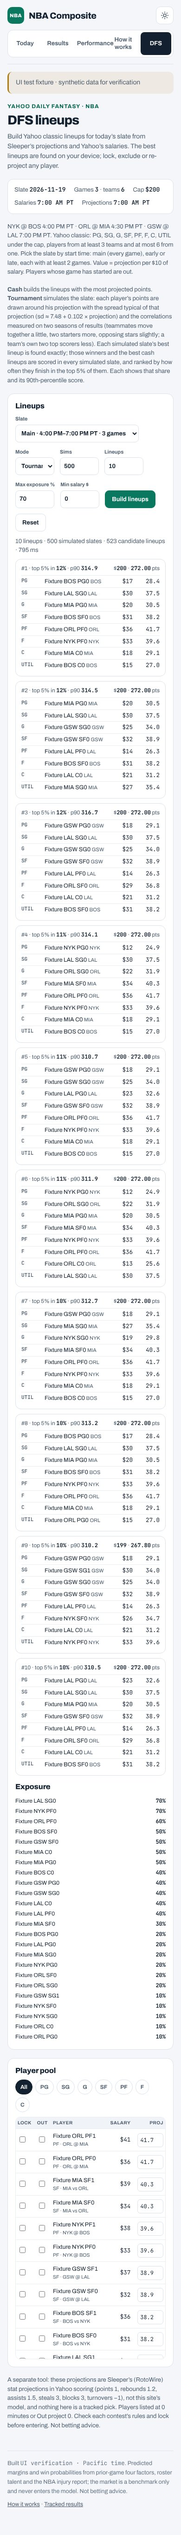
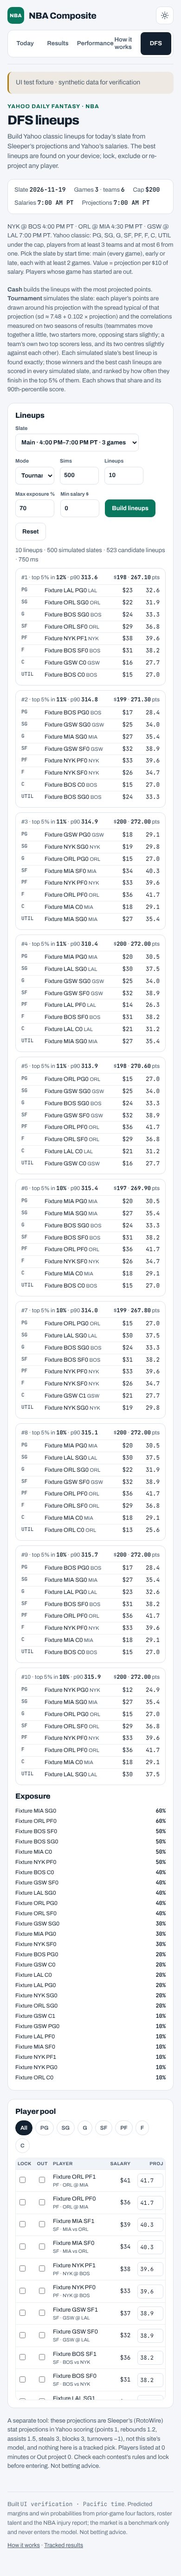
DFS tournament: two centres on one team split to the measured -0.04
Owner's request. The one negative pair the research measured (teammate
C-C, -0.039 +/- 0.071 pooled; both starters -0.060 +/- 0.110) was +0.012
(+0.08 if both start) in the factor model. Each team's two top projected
centres now share an opposite-sign factor sized per team (big_split) so
their pair is SIM["center_pair"] = -0.04 whatever their starter or star
flags; nothing else changes.

Tests: 20,000 draws put the two centres at -0.04 within 0.02 beside the
other pairs; the slate flags and sizes the split. Tonight's tournament
lineups are unchanged (no top lineup pairs two same-team centres).

Claude-Session: https://claude.ai/code/session_01Tymo9A874w1j1dz2D4UFzh

diff --git a/dfs.py b/dfs.py
@@ -61,9 +61,11 @@ OUT_STATUSES = ("out", "ir")
 # his projection, and his simulated points share factors whose pair
 # correlations match the measured ones: any two teammates TEAM; two starters
 # TEAM + STARTER; opposing top-2 scorers GAME_STAR; a team's own two top
-# scorers TEAM + STARTER + GAME_STAR - STAR_SPLIT (about +0.03).
+# scorers TEAM + STARTER + GAME_STAR - STAR_SPLIT (about +0.03); a team's
+# two top projected centres CENTER_PAIR (the one negative pair measured,
+# -0.039 +/- 0.071 pooled: a split factor sized per team, big_split).
 SIM = {"sd_base": 7.48, "sd_slope": 0.102, "team": 0.012, "starter": 0.068,
-       "game_star": 0.038, "star_split": 0.09, "seed": 356}
+       "game_star": 0.038, "star_split": 0.09, "center_pair": -0.04, "seed": 356}
 STARTERS, STARS = 5, 2   # per team: by Sleeper minutes, by projection
 
 
@@ -225,6 +227,14 @@ def slate(today, yahoo=None, sleeper=None, native=None, now=None):
             p["starter"] = True
         for k, p in enumerate(sorted(mine, key=lambda p: -p["proj"])[:STARS]):
             p["star"] = k + 1
+        bigs = sorted((p for p in mine if p["pos"] == "C"), key=lambda p: -p["proj"])[:2]
+        if len(bigs) == 2:   # their pair without the split, then the split to CENTER_PAIR
+            a, b = bigs
+            pair = SIM["team"] + (SIM["starter"] if a.get("starter") and b.get("starter") else 0)
+            if a.get("star") and b.get("star"):
+                pair += SIM["game_star"] - SIM["star_split"]
+            for k, p in enumerate(bigs):
+                p["big"], p["big_split"] = k + 1, round(max(0.0, pair - SIM["center_pair"]), 4)
     snaps = s["snapshot_utc"].astype(str)
     games_out = sorted({(r.game_code, r.away, r.home, r.start_utc) for r in y.itertuples()},
                        key=lambda t: (t[3], t[0]))
@@ -353,7 +363,8 @@ def body(data, ui):
             "<b>Tournament</b> simulates the slate: each player’s points are drawn around his projection "
             f"with the spread typical of that projection (sd ≈ {SIM['sd_base']:g} + {SIM['sd_slope']:g} × "
             "projection) and the correlations measured on two seasons of results (teammates move together "
-            "a little, two starters more, opposing stars slightly; a team’s own two top scorers less). "
+            "a little, two starters more, opposing stars slightly; a team’s own two top scorers less, "
+            "and its two centres slightly against each other). "
             "Each simulated slate’s best lineup is found exactly; those winners and the best cash "
             "lineups are scored in every simulated slate, and ranked by how often they finish in the top "
             "5% of them. Each shows that share and its 90th-percentile score.</p>"
@@ -432,8 +443,9 @@ function teamsOk(ids,team,minTeams,maxPer){var c={};ids.forEach(function(i){var 
 // projection plus sd x z, floored at 0, where z = sqrt(team) T[team]
 // + sqrt(starter) U[team] (starters) + sqrt(game_star) G[game] (top-2
 // scorers) +/- sqrt(star_split) Q[team] (+ for the top scorer, - for the
-// second) + an independent remainder: a factor model, so every draw is a
-// valid correlated normal.
+// second) +/- sqrt(big_split) R[team] (a team's two top centres) + an
+// independent remainder: a factor model, so every draw is a valid
+// correlated normal.
 function rng(seed){var a=seed>>>0;return function(){a=(a+0x6D2B79F5)>>>0;var t=a;t=Math.imul(t^(t>>>15),t|1);
  t^=t+Math.imul(t^(t>>>7),t|61);return ((t^(t>>>14))>>>0)/4294967296;};}
 function gauss(r){var u=0,v=0;while(u===0)u=r();while(v===0)v=r();return Math.sqrt(-2*Math.log(u))*Math.cos(2*Math.PI*v);}
@@ -441,6 +453,7 @@ function draw(P,M,r){var f={},out=new Float64Array(P.length);function F(k){if(!(
  for(var i=0;i<P.length;i++){var p=P[i],w=M.team,z=Math.sqrt(M.team)*F('T'+p.team);
   if(p.starter){z+=Math.sqrt(M.starter)*F('U'+p.team);w+=M.starter;}
   if(p.star){z+=Math.sqrt(M.game_star)*F('G'+p.game)+(p.star===1?1:-1)*Math.sqrt(M.star_split)*F('Q'+p.team);w+=M.game_star+M.star_split;}
+  if(p.big){z+=(p.big===1?1:-1)*Math.sqrt(p.big_split)*F('R'+p.team);w+=p.big_split;}
   z+=Math.sqrt(Math.max(0,1-w))*gauss(r);out[i]=Math.max(0,p.v+(M.sd_base+M.sd_slope*p.v)*z);}
  return out;}
 // S simulated slates, each solved exactly (ok(ids): the team rules). Returns
@@ -493,7 +506,7 @@ function esc(s){return String(s).replace(/[&<>"']/g,function(c){return {'&':'&am
 function proj(p){return st.proj[p.id]!==undefined?st.proj[p.id]:p.proj;}
 function started(p){return Date.parse(p.start)<=Date.now();}
 function pool(){return D.players.filter(function(p){var v=proj(p);return inSlate(p)&&!st.out[p.id]&&!started(p)&&v!==null&&v!==undefined&&(v>0||st.lock[p.id]);})
- .map(function(p){return {id:p.id,pos:p.pos,sal:p.sal,v:proj(p),team:p.team,game:p.game,starter:!!p.starter,star:p.star||0};});}
+ .map(function(p){return {id:p.id,pos:p.pos,sal:p.sal,v:proj(p),team:p.team,game:p.game,starter:!!p.starter,star:p.star||0,big:p.big||0,big_split:p.big_split||0};});}
 function slots(ids,byId){var ps=ids.map(function(i){return byId[i];}),used={},at={};
  function take(ok){for(var i=0;i<ps.length;i++){if(!used[i]&&ok(ps[i])){used[i]=1;return ps[i];}}return null;}
  [['PG',function(p){return p.pos==='PG';}],['SG',function(p){return p.pos==='SG';}],['SF',function(p){return p.pos==='SF';}],

diff --git a/tests/test_dfs.py b/tests/test_dfs.py
@@ -222,7 +222,10 @@ def _sim_pool(seed=5):
             for k, pos in enumerate(["PG", "SG", "SF", "PF", "C", "PG", "SF", "C"]):
                 pool.append(dict(id=f"{t}{k}", pos=pos, sal=int(rng.integers(10, 40)),
                                  v=round(float(rng.uniform(15, 45)), 2), team=t, game=f"g{g}",
-                                 starter=k < 5, star=(k + 1) if k < 2 else 0))
+                                 starter=k < 5, star=(k + 1) if k < 2 else 0,
+                                 # the starting centre (k 4) and the bench one (k 7)
+                                 big={4: 1, 7: 2}.get(k, 0),
+                                 big_split=dfs.SIM["team"] - dfs.SIM["center_pair"] if k in (4, 7) else 0))
     return pool
 
 
@@ -258,6 +261,7 @@ process.stdout.write(JSON.stringify(Z));""", dict(pool=pool, sim=dfs.SIM))
              ("A5", "A6"): m["team"],                              # two bench players
              ("A0", "A1"): m["team"] + m["starter"] + m["game_star"] - m["star_split"],  # own stars
              ("A0", "B0"): m["game_star"], ("A0", "B1"): m["game_star"],             # opposing stars
+             ("A4", "A7"): m["center_pair"],                       # the team's two centres
              ("A2", "B2"): 0.0, ("A0", "C0"): 0.0}                 # opponents; other game
     for (a, b), want in pairs.items():
         assert c[ix[a], ix[b]] == pytest.approx(want, abs=0.02), (a, b)
@@ -267,15 +271,22 @@ process.stdout.write(JSON.stringify(Z));""", dict(pool=pool, sim=dfs.SIM))
 @pytest.mark.skipif(NODE is None, reason="node is not installed")
 def test_sim_model_and_flags_reach_the_page():
     yahoo = pd.DataFrame(dfs.parse_feed(_feed([_yp("p1", "Zion Williamson", "NO", "PF", 36),
-                                               _yp("p2", "Other Guy", "NO", "C", 20)]), now=NOW),
+                                               _yp("p2", "Other Guy", "NO", "C", 20),
+                                               _yp("p3", "Backup Big", "NO", "C", 10)]), now=NOW),
                          columns=dfs.YAHOO_COLUMNS).astype(str)
     line = dict(minutes="32", pts="20", reb="5", ast="3", stl="1", blk="1", to="2", tpm="1")
     sl = _sleeper([dict(kind="pre", team="NOP", sleeper_id="1", name="Zion Williamson", **line),
-                   dict(kind="pre", team="NOP", sleeper_id="2", name="Other Guy", **dict(line, pts="5"))])
+                   dict(kind="pre", team="NOP", sleeper_id="2", name="Other Guy", **dict(line, pts="5")),
+                   dict(kind="pre", team="NOP", sleeper_id="3", name="Backup Big", **dict(line, pts="2"))])
     d = dfs.slate("2026-10-29", yahoo=yahoo, sleeper=sl, native=_native(), now=NOW)
     by = {p["name"]: p for p in d["players"]}
     assert d["sim"] == dfs.SIM and by["Zion Williamson"]["star"] == 1 and by["Other Guy"]["star"] == 2
     assert by["Zion Williamson"]["starter"] and by["Other Guy"]["starter"]
+    # the two centres (both starters here): split to the measured pair
+    m = dfs.SIM
+    assert (by["Other Guy"]["big"], by["Backup Big"]["big"]) == (1, 2) and "big" not in by["Zion Williamson"]
+    assert by["Other Guy"]["big_split"] == by["Backup Big"]["big_split"] == pytest.approx(
+        m["team"] + m["starter"] - m["center_pair"], abs=1e-4)
 
 
 @pytest.mark.skipif(NODE is None, reason="node is not installed")
